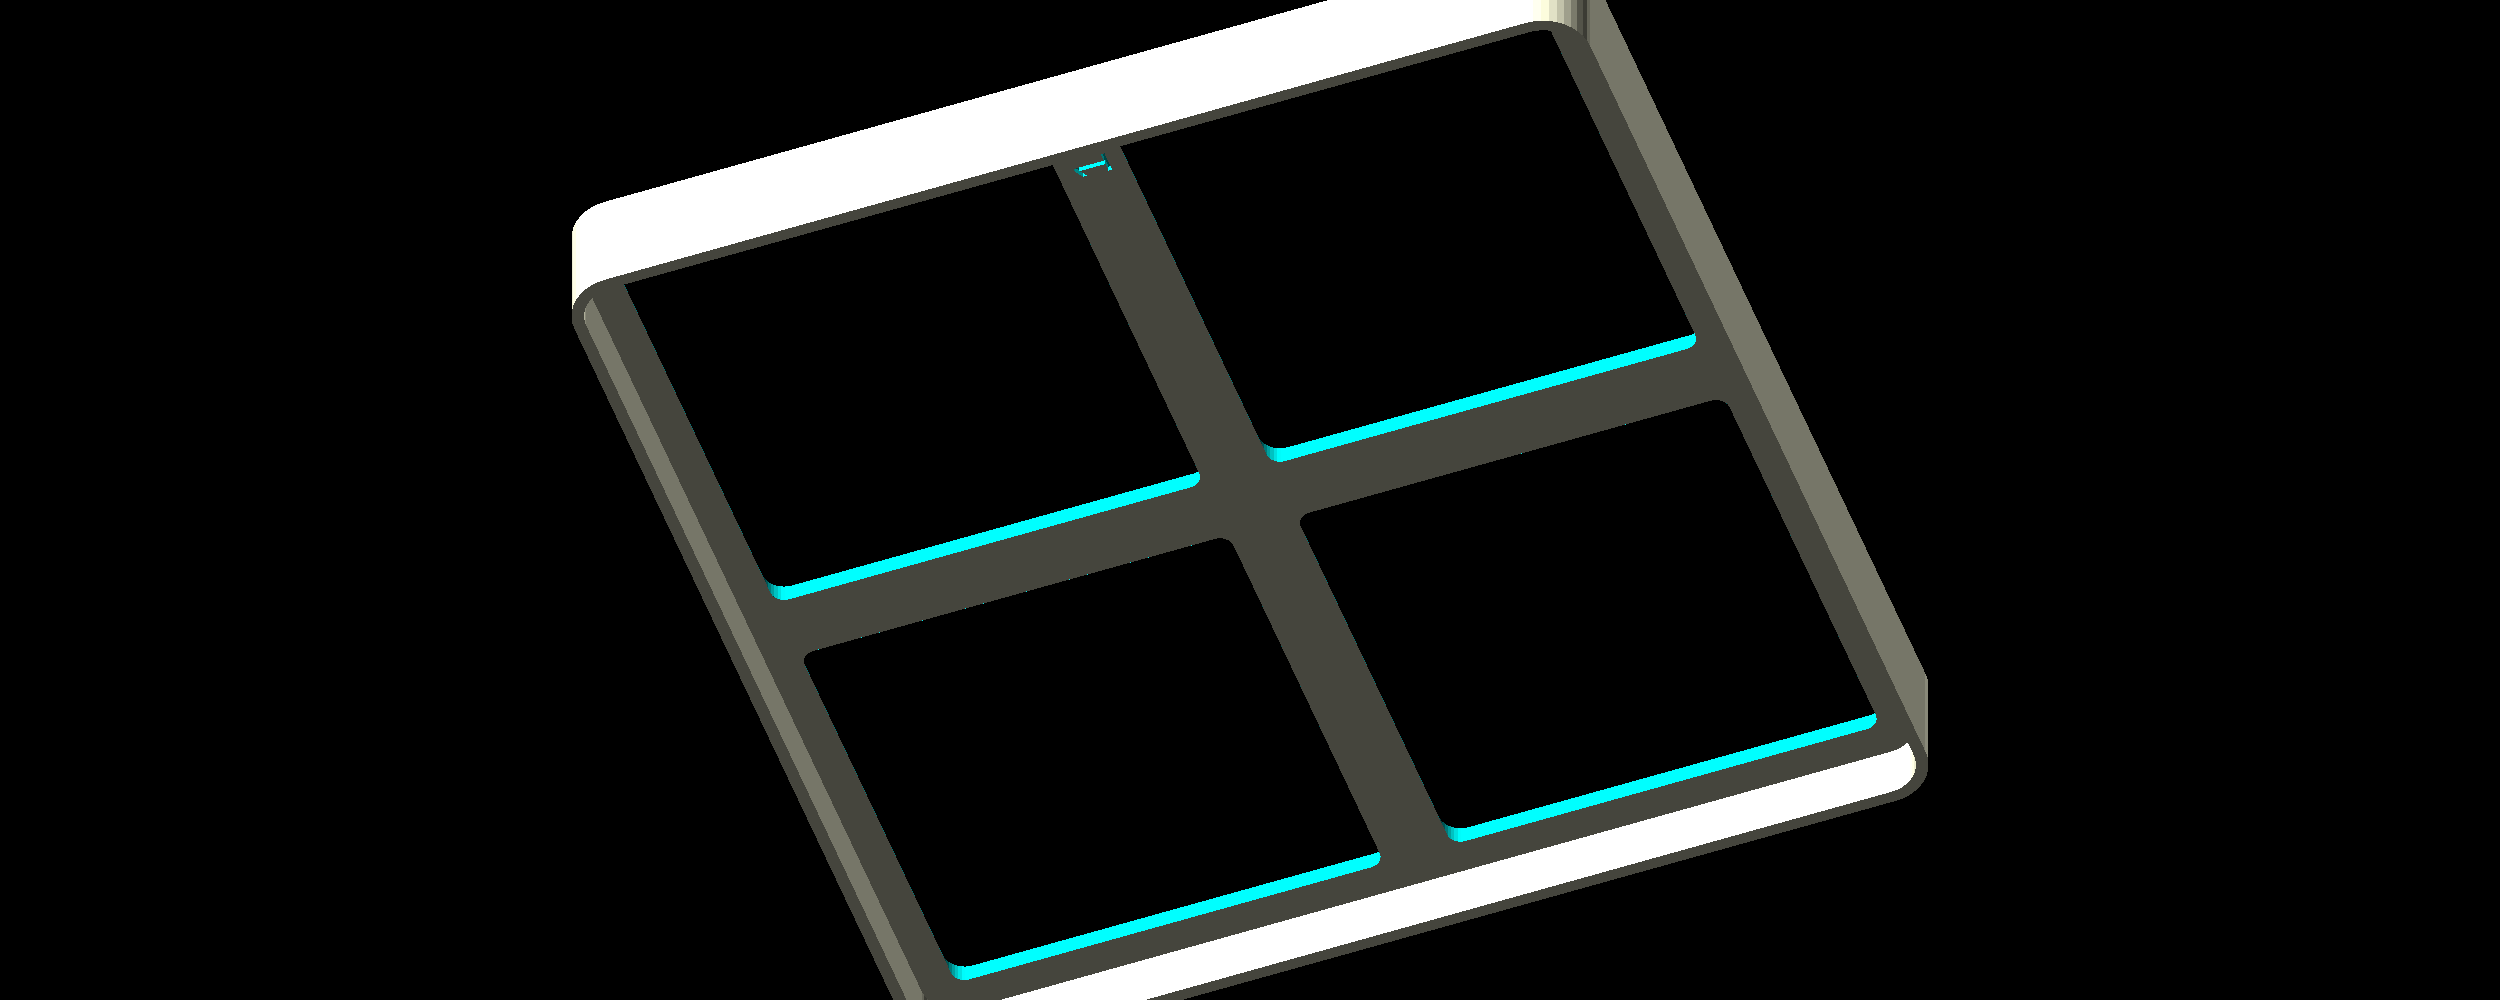
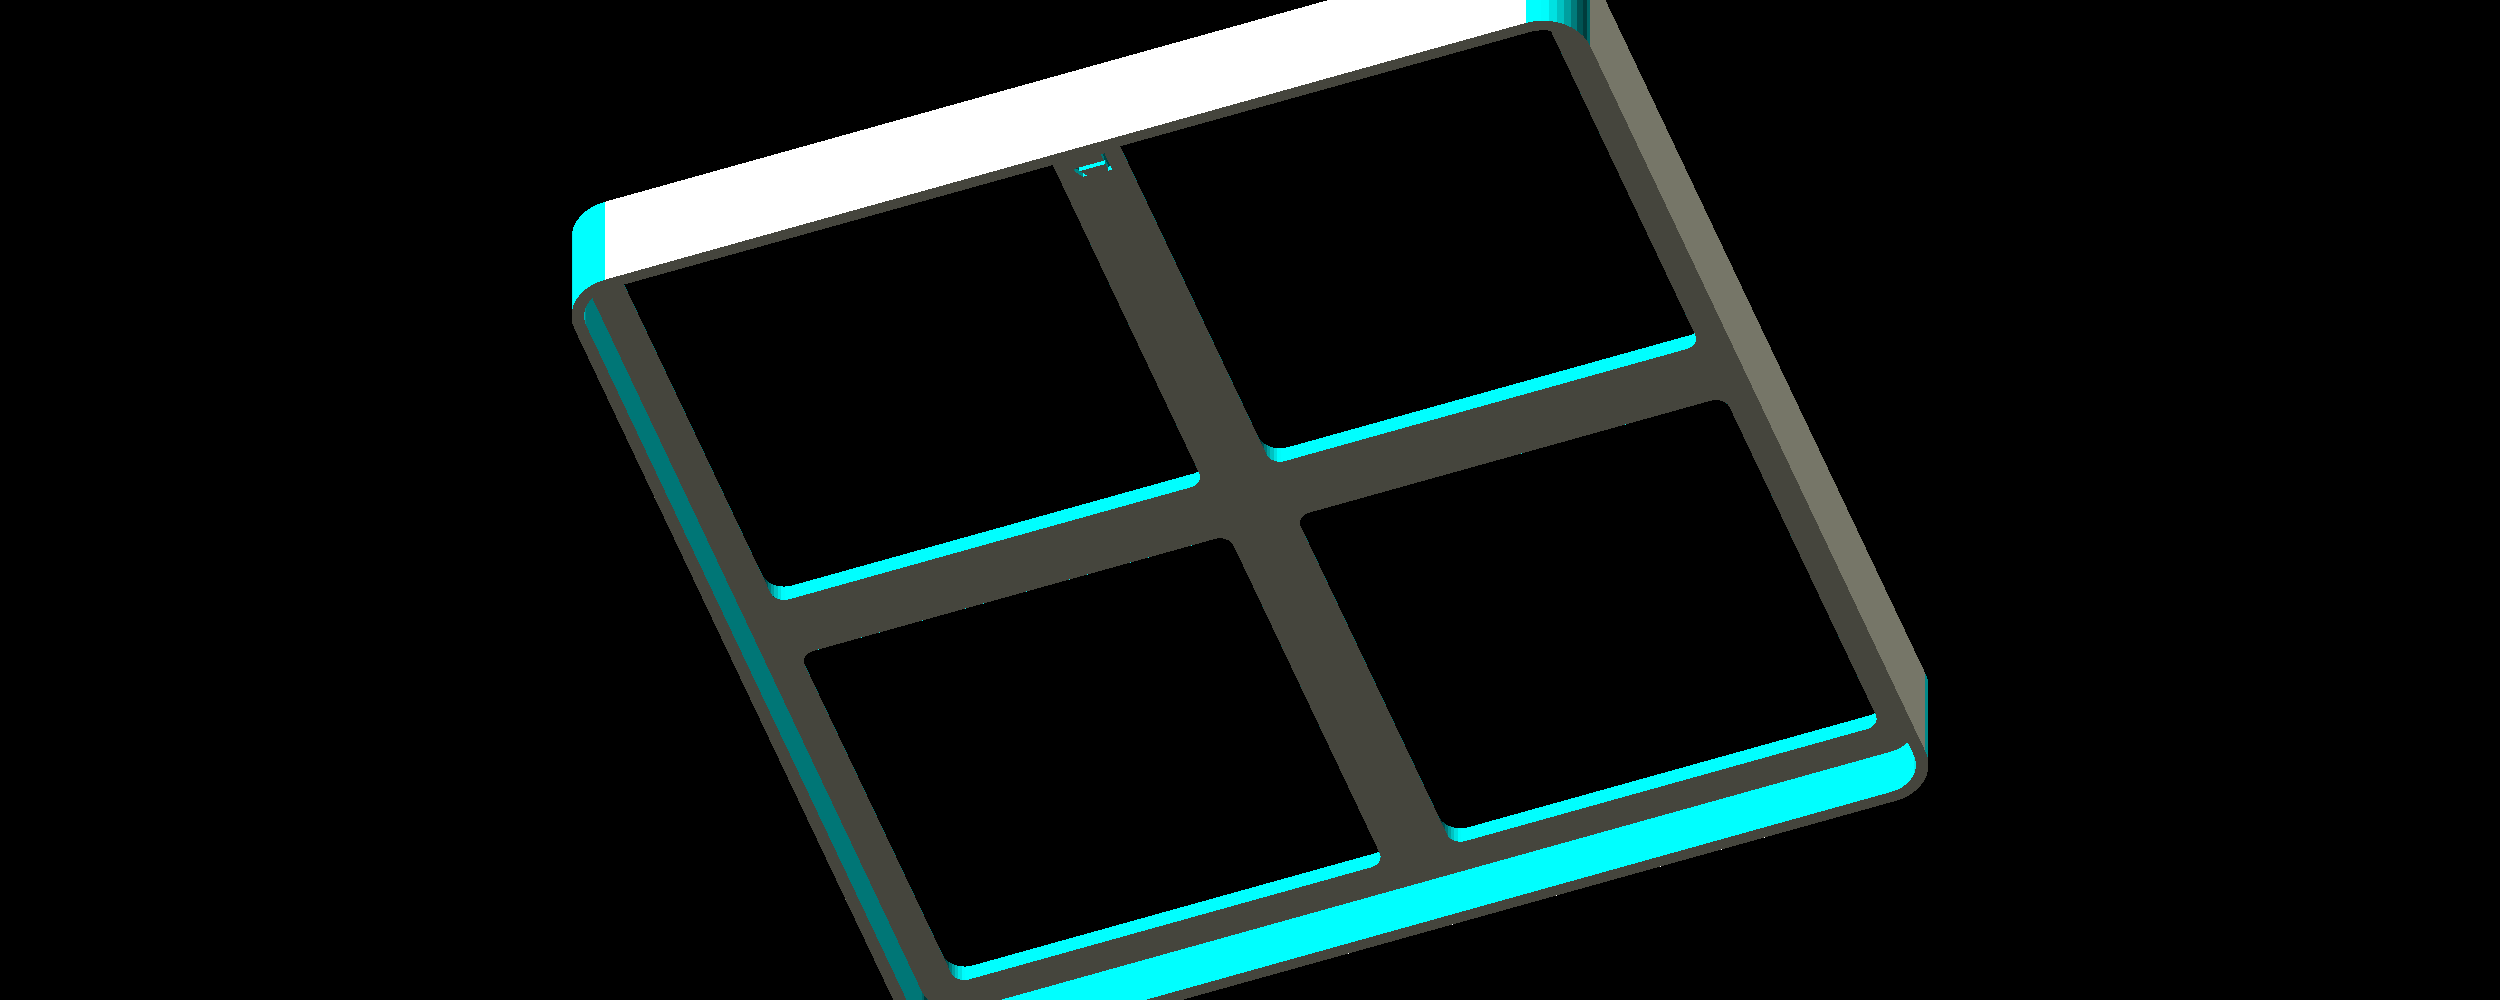
Variable wall height

diff --git a/README.md b/README.md
@@ -67,6 +67,7 @@ For inserting magnets, check out [the jig](#jig).
   - [Plate Wall](#plate-wall)
     - [Top plate wall](#top-plate-wall)
     - [Bottom plate wall](#bottom-plate-wall)
+    - [Variable wall height](#variable-wall-height)
   - [Vertical Screws](#vertical-screws)
     - [Screw dimensions](#screw-dimensions)
     - [Screw locations](#screw-locations)
@@ -552,6 +553,13 @@ A bottom wall can be used to keep your grid from slipping off e.g. a table, with
 
 <!-- openscad -o docs/images/wall-bottom.png --camera=0,0,0,140,0,20,200 -D plate_size='[84, 84]' -D magnets=false -D plate_wall_thickness='[1,1,1,1]' -D plate_wall_height='[0,5]' -->
 <img src="docs/images/wall-bottom.png" alt="Bottom wall" />
+
+### Variable wall height
+
+The top and bottom wall height can also be adjusted individually for each corner using the `plate_wall_below` and `plate_wall_above` options. This allows you to create shelf-style grids:
+
+<!-- openscad -o docs/images/wall-variable.png --camera=0,0,0,40,0,20,300 -D plate_size='[84, 84]' -D plate_wall_thickness='[1,1,0,1]' -D plate_wall_above='[0, 20, 20, 0]' -->
+<img src="docs/images/wall-variable.png" alt="Shelf" />
 
 ## Vertical Screws
 
